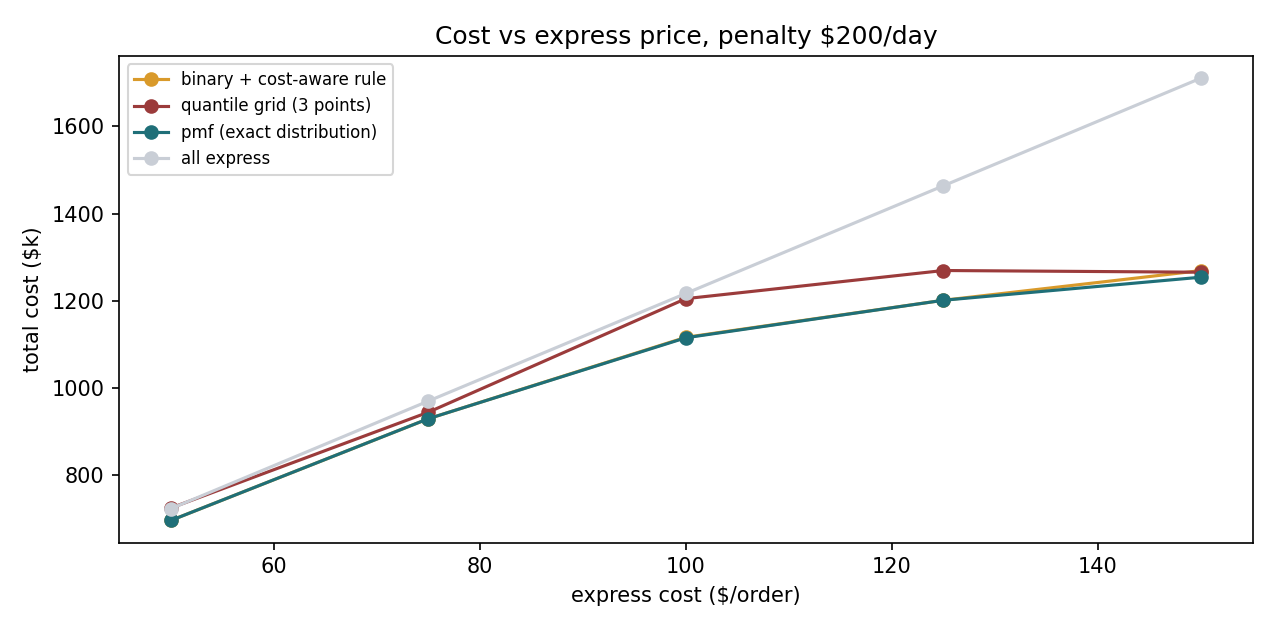
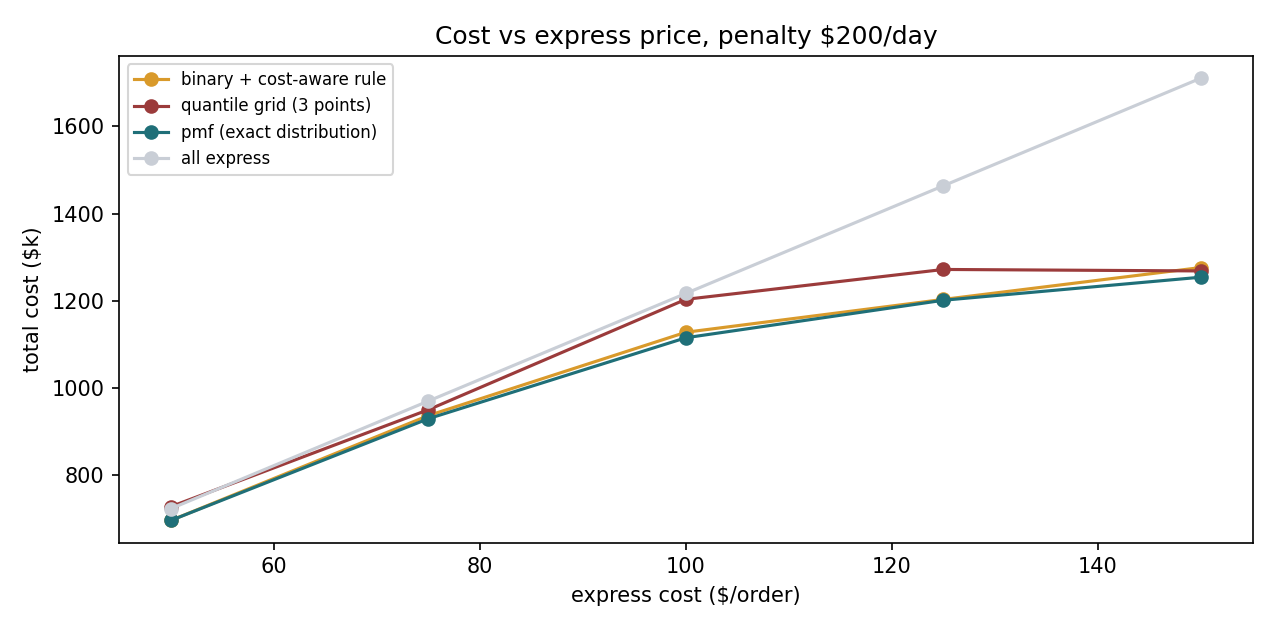
chore: 按订单口径重跑完整流程，README 标注旧表为历史

diff --git a/results/summary.md b/results/summary.md
@@ -1,21 +1,21 @@
 # Cost analysis — refreshed numbers
 
-Generated by `scripts/refresh_cost_analysis.py` · penalty $200/late-day · 9,863 test orders (chronological split) · cache `2515f23ce4ff6aa6`.
+Generated by `scripts/refresh_cost_analysis.py` · penalty $200/late-day · 9,863 test orders (chronological split) · cache `8d8b48085c005414`.
 
 | metric | value |
 |---|---|
 | orders (full dataset) | 65,752 |
 | late rate | 54.7% |
 | total late-days | 59,230 |
-| binary baseline AUC | 0.7787 |
+| binary baseline AUC | 0.7795 |
 | shipping-mode base-rate AUC | 0.7784 |
-| MAE (P50, days) | 1.014 |
-| P10/P50/P90 coverage | 12.1% / 64.5% / 93.5% |
+| MAE (P50, days) | 1.013 |
+| P10/P50/P90 coverage | 12.1% / 62.0% / 93.0% |
 
 ## The signal ceiling: shipping mode is the whole model
 
-- A base-rate lookup on `Shipping Mode` alone reaches AUC **0.7784**; the 18-feature model reaches **0.7787** (gap +0.0003).
-- Within `Second Class` the AUC is **0.5079** (n=1,923, late rate 80.3%) — no per-order signal.
+- A base-rate lookup on `Shipping Mode` alone reaches AUC **0.7784**; the 18-feature model reaches **0.7795** (gap +0.0011).
+- Within `Second Class` the AUC is **0.5076** (n=1,923, late rate 80.3%) — no per-order signal.
 - Within `Standard Class` the AUC is **0.5001** (n=5,888, late rate 39.9%) — no per-order signal.
 - Independence checks inside `Standard Class` (chi-square, Cramér's V): Market p=0.994/V=0.006, Category Name p=1.000/V=0.029, Customer Segment p=0.718/V=0.008, Type p=0.462/V=0.010, order_month p=1.000/V=0.011
 
@@ -42,12 +42,12 @@ so 0.78 is not a modelling failure — it is the information ceiling of this dat
 | oracle (hindsight) | $771,400 | $78.21 | 54.8% | 388 | 5018 | 100.0% | 100.0% |
 | pmf exact (lookup) | $1,115,520 | $113.10 | 94.5% | 5888 | 3436 | 100.0% | 58.0% |
 | budget $500k (pmf) | $1,115,520 | $113.10 | 94.5% | 5888 | 3436 | 100.0% | 58.0% |
-| binary: cost-aware | $1,116,600 | $113.21 | 94.5% | 5825 | 3499 | 100.0% | 58.0% |
-| pmf 7-class model | $1,126,480 | $114.21 | 94.5% | 4133 | 5191 | 100.0% | 58.0% |
-| binary: tuned tau=0.09 | $1,163,200 | $117.94 | 94.5% | 0 | 9324 | 100.0% | 58.0% |
-| quantile grid (3 points) | $1,205,100 | $122.18 | 99.8% | 5737 | 4104 | 99.9% | 54.9% |
+| binary: cost-aware | $1,128,120 | $114.38 | 94.5% | 4127 | 5197 | 100.0% | 58.0% |
+| pmf 7-class model | $1,130,320 | $114.60 | 94.5% | 3808 | 5516 | 100.0% | 58.0% |
+| binary: tuned tau=0.05 | $1,163,200 | $117.94 | 94.5% | 0 | 9324 | 100.0% | 58.0% |
+| quantile grid (3 points) | $1,203,520 | $122.02 | 99.3% | 6286 | 3506 | 99.5% | 54.9% |
 | all express | $1,217,100 | $123.40 | 100.0% | 0 | 9863 | 100.0% | 54.8% |
-| binary: p50 > 0 (legacy) | $1,225,600 | $124.26 | 93.9% | 0 | 9264 | 95.8% | 55.9% |
+| binary: p50 > 0 (legacy) | $1,261,600 | $127.91 | 77.5% | 0 | 7640 | 83.6% | 59.1% |
 | capacity 25% (best-first) | $1,377,000 | $139.61 | 25.0% | 0 | 2466 | 38.6% | 84.6% |
 | none (do nothing) | $1,779,600 | $180.43 | 0.0% | 0 | 0 | 0.0% | 0.0% |
 
@@ -55,28 +55,28 @@ so 0.78 is not a modelling failure — it is the information ceiling of this dat
 
 | policy | mean_diff_per_order | ci_low | ci_high | significant |
 |---|---|---|---|---|
-| oracle (hindsight) | -34.890 | -35.876 | -33.892 | True |
+| oracle (hindsight) | -34.890 | -35.906 | -33.931 | True |
 | budget $500k (pmf) | 0.000 | 0.000 | 0.000 | False |
-| binary: cost-aware | 0.110 | -0.031 | 0.250 | False |
-| pmf 7-class model | 1.111 | 0.275 | 1.896 | True |
-| binary: tuned tau=0.09 | 4.834 | 3.339 | 6.357 | True |
-| quantile grid (3 points) | 9.082 | 8.230 | 10.043 | True |
-| all express | 10.299 | 8.730 | 11.967 | True |
-| binary: p50 > 0 (legacy) | 11.161 | 9.688 | 12.656 | True |
-| capacity 25% (best-first) | 26.511 | 25.326 | 27.662 | True |
-| none (do nothing) | 67.330 | 65.286 | 69.314 | True |
+| binary: cost-aware | 1.278 | 0.479 | 2.125 | True |
+| pmf 7-class model | 1.501 | 0.608 | 2.357 | True |
+| binary: tuned tau=0.05 | 4.834 | 3.334 | 6.290 | True |
+| quantile grid (3 points) | 8.922 | 8.101 | 9.725 | True |
+| all express | 10.299 | 8.737 | 11.844 | True |
+| binary: p50 > 0 (legacy) | 14.811 | 13.395 | 16.212 | True |
+| capacity 25% (best-first) | 26.511 | 25.396 | 27.623 | True |
+| none (do nothing) | 67.330 | 65.193 | 69.320 | True |
 
 ## Headline deltas
 
 - do nothing → pmf: $1,779,600 → $1,115,520 (37.3% lower)
 - all express → pmf: $1,217,100 → $1,115,520 (8.3% lower)
-- **quantile grid → pmf: $1,205,100 → $1,115,520 (7.4% lower)**
-- legacy binary → pmf: $1,225,600 → $1,115,520 (9.0% lower)
-- fair binary (same decision layer) → pmf: $1,116,600 → $1,115,520 (0.1% lower)
+- **quantile grid → pmf: $1,203,520 → $1,115,520 (7.3% lower)**
+- legacy binary → pmf: $1,261,600 → $1,115,520 (11.6% lower)
+- fair binary (same decision layer) → pmf: $1,128,120 → $1,115,520 (1.1% lower)
 
 The v1 README compared the quantile policy against `p50 > 0`, which is a *threshold*
 bug, not a model gap: once the binary baseline gets the same expected-cost rule it lands
-within 0.10% of the optimum. The real gap is the 3-quantile reconstruction of a 7-atom distribution.
+within 1.12% of the optimum. The real gap is the 3-quantile reconstruction of a 7-atom distribution.
 
 ## Robustness to cost-parameter uncertainty
 
@@ -100,10 +100,10 @@ pmf cost advantage over the 3-point quantile grid (positive = pmf cheaper):
 
 | penalty_per_day | 50 | 75 | 100 | 125 | 150 |
 |---|---|---|---|---|---|
-| 100 | +0.4% | +3.3% | +0.1% | +0.1% | +0.1% |
-| 200 | +3.9% | +1.6% | +7.4% | +5.4% | +0.9% |
-| 300 | +3.2% | +3.9% | +1.1% | +0.7% | +6.8% |
-| 400 | +2.8% | +3.4% | +3.8% | +0.9% | +0.8% |
+| 100 | +0.9% | +3.3% | +0.2% | +0.2% | +0.2% |
+| 200 | +4.3% | +2.2% | +7.3% | +5.5% | +1.1% |
+| 300 | +3.6% | +4.5% | +1.8% | +8.3% | +6.7% |
+| 400 | +3.0% | +3.7% | +1.5% | +1.5% | +1.6% |
 
 The pmf beats the quantile grid in all 20 settings (0.07%–8.2%).
 Against the fair binary baseline the gap is −0.005% to +2.6%, and binary wins 4 of 20 —
@@ -142,11 +142,11 @@ $200/day assumption, not of the data. Any real deployment has to calibrate this 
 
 | capacity | cost_pmf | cost_quantile | recall_pmf | recall_quantile |
 |---|---|---|---|---|
-| 0.100 | 1602200.000 | 1600400.000 | 0.146 | 0.146 |
-| 0.250 | 1377000.000 | 1422880.000 | 0.386 | 0.325 |
-| 0.500 | 1239040.000 | 1364280.000 | 0.674 | 0.509 |
-| 0.750 | 1169220.000 | 1294380.000 | 0.859 | 0.694 |
-| 1.000 | 1115520.000 | 1205100.000 | 1.000 | 0.999 |
+| 0.100 | 1602200.000 | 1601000.000 | 0.146 | 0.146 |
+| 0.250 | 1377000.000 | 1423720.000 | 0.386 | 0.324 |
+| 0.500 | 1239040.000 | 1362160.000 | 0.674 | 0.508 |
+| 0.750 | 1169220.000 | 1283460.000 | 0.859 | 0.726 |
+| 1.000 | 1115520.000 | 1203520.000 | 1.000 | 0.995 |
 
 ## Budget-constrained allocation (pmf, incremental greedy)
 

diff --git a/README.md b/README.md
@@ -15,7 +15,7 @@ make data        # 下载 91 MB 数据到 data/
 make reproduce   # 训练 → 诊断 → 成本表 → results/ + 模型包
 ```
 
-> **2026-10-27 复审后的口径**：CI 合成数据、分组 A/B、SRM 阻断、uplift 的 base_delay 和缓存键已修；A/B、uplift、pacing 等扩展结果以 `scripts/` 重新生成的 `results/*.json` 为准。文中早期 bootstrap、组内 AUC、累计迟到天数等段落保留为历史记录，不再当作当前结论。
+> **2026-10-27 复审后的口径（重要）**：主流程已改成按订单聚合，完整模式测试集是 **9,863 单**，不是文中旧表的 27,078 单；pmf 成本 **$1,115,520**，不是 $3.06M。当前可复现数字以 `results/summary.md` 和 `results/*.csv/json` 为准。下面所有按明细（line）口径写的策略表、bootstrap、预算/产能和扩展分析都只作历史记录，不再当作当前结论。CI 合成数据、分组 A/B、SRM 阻断、uplift 的 base_delay 和缓存键已修。
 
 ---
 
